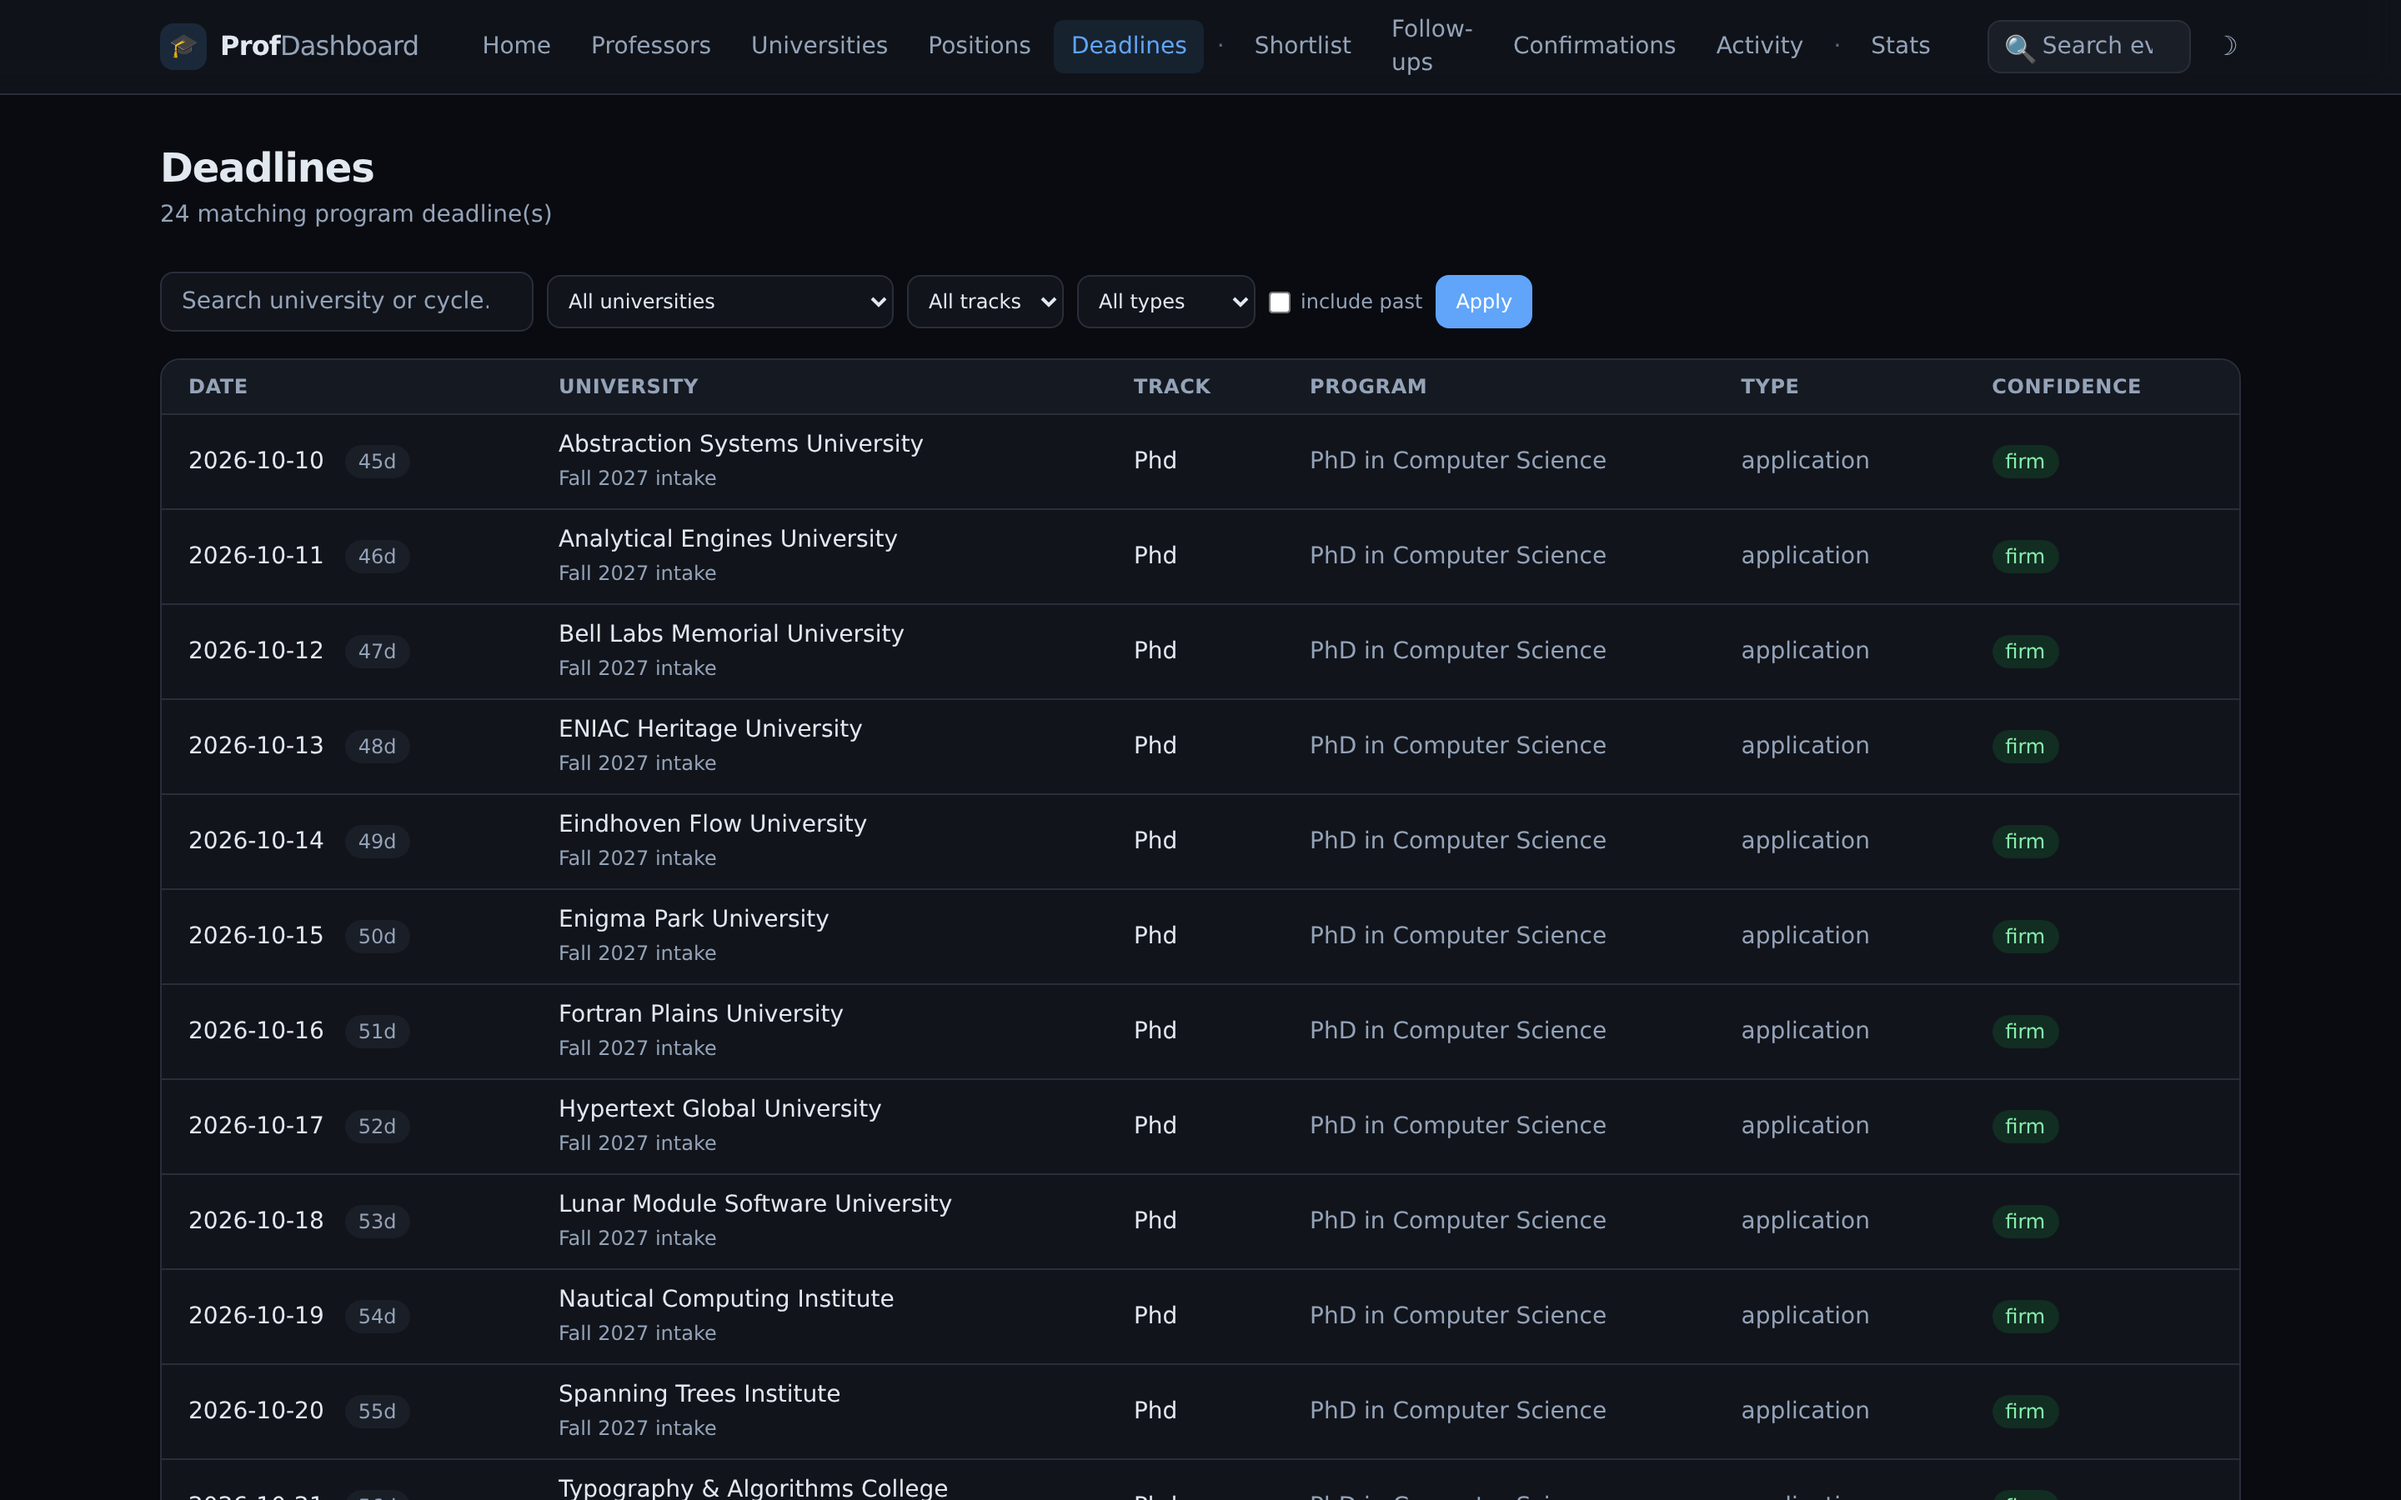
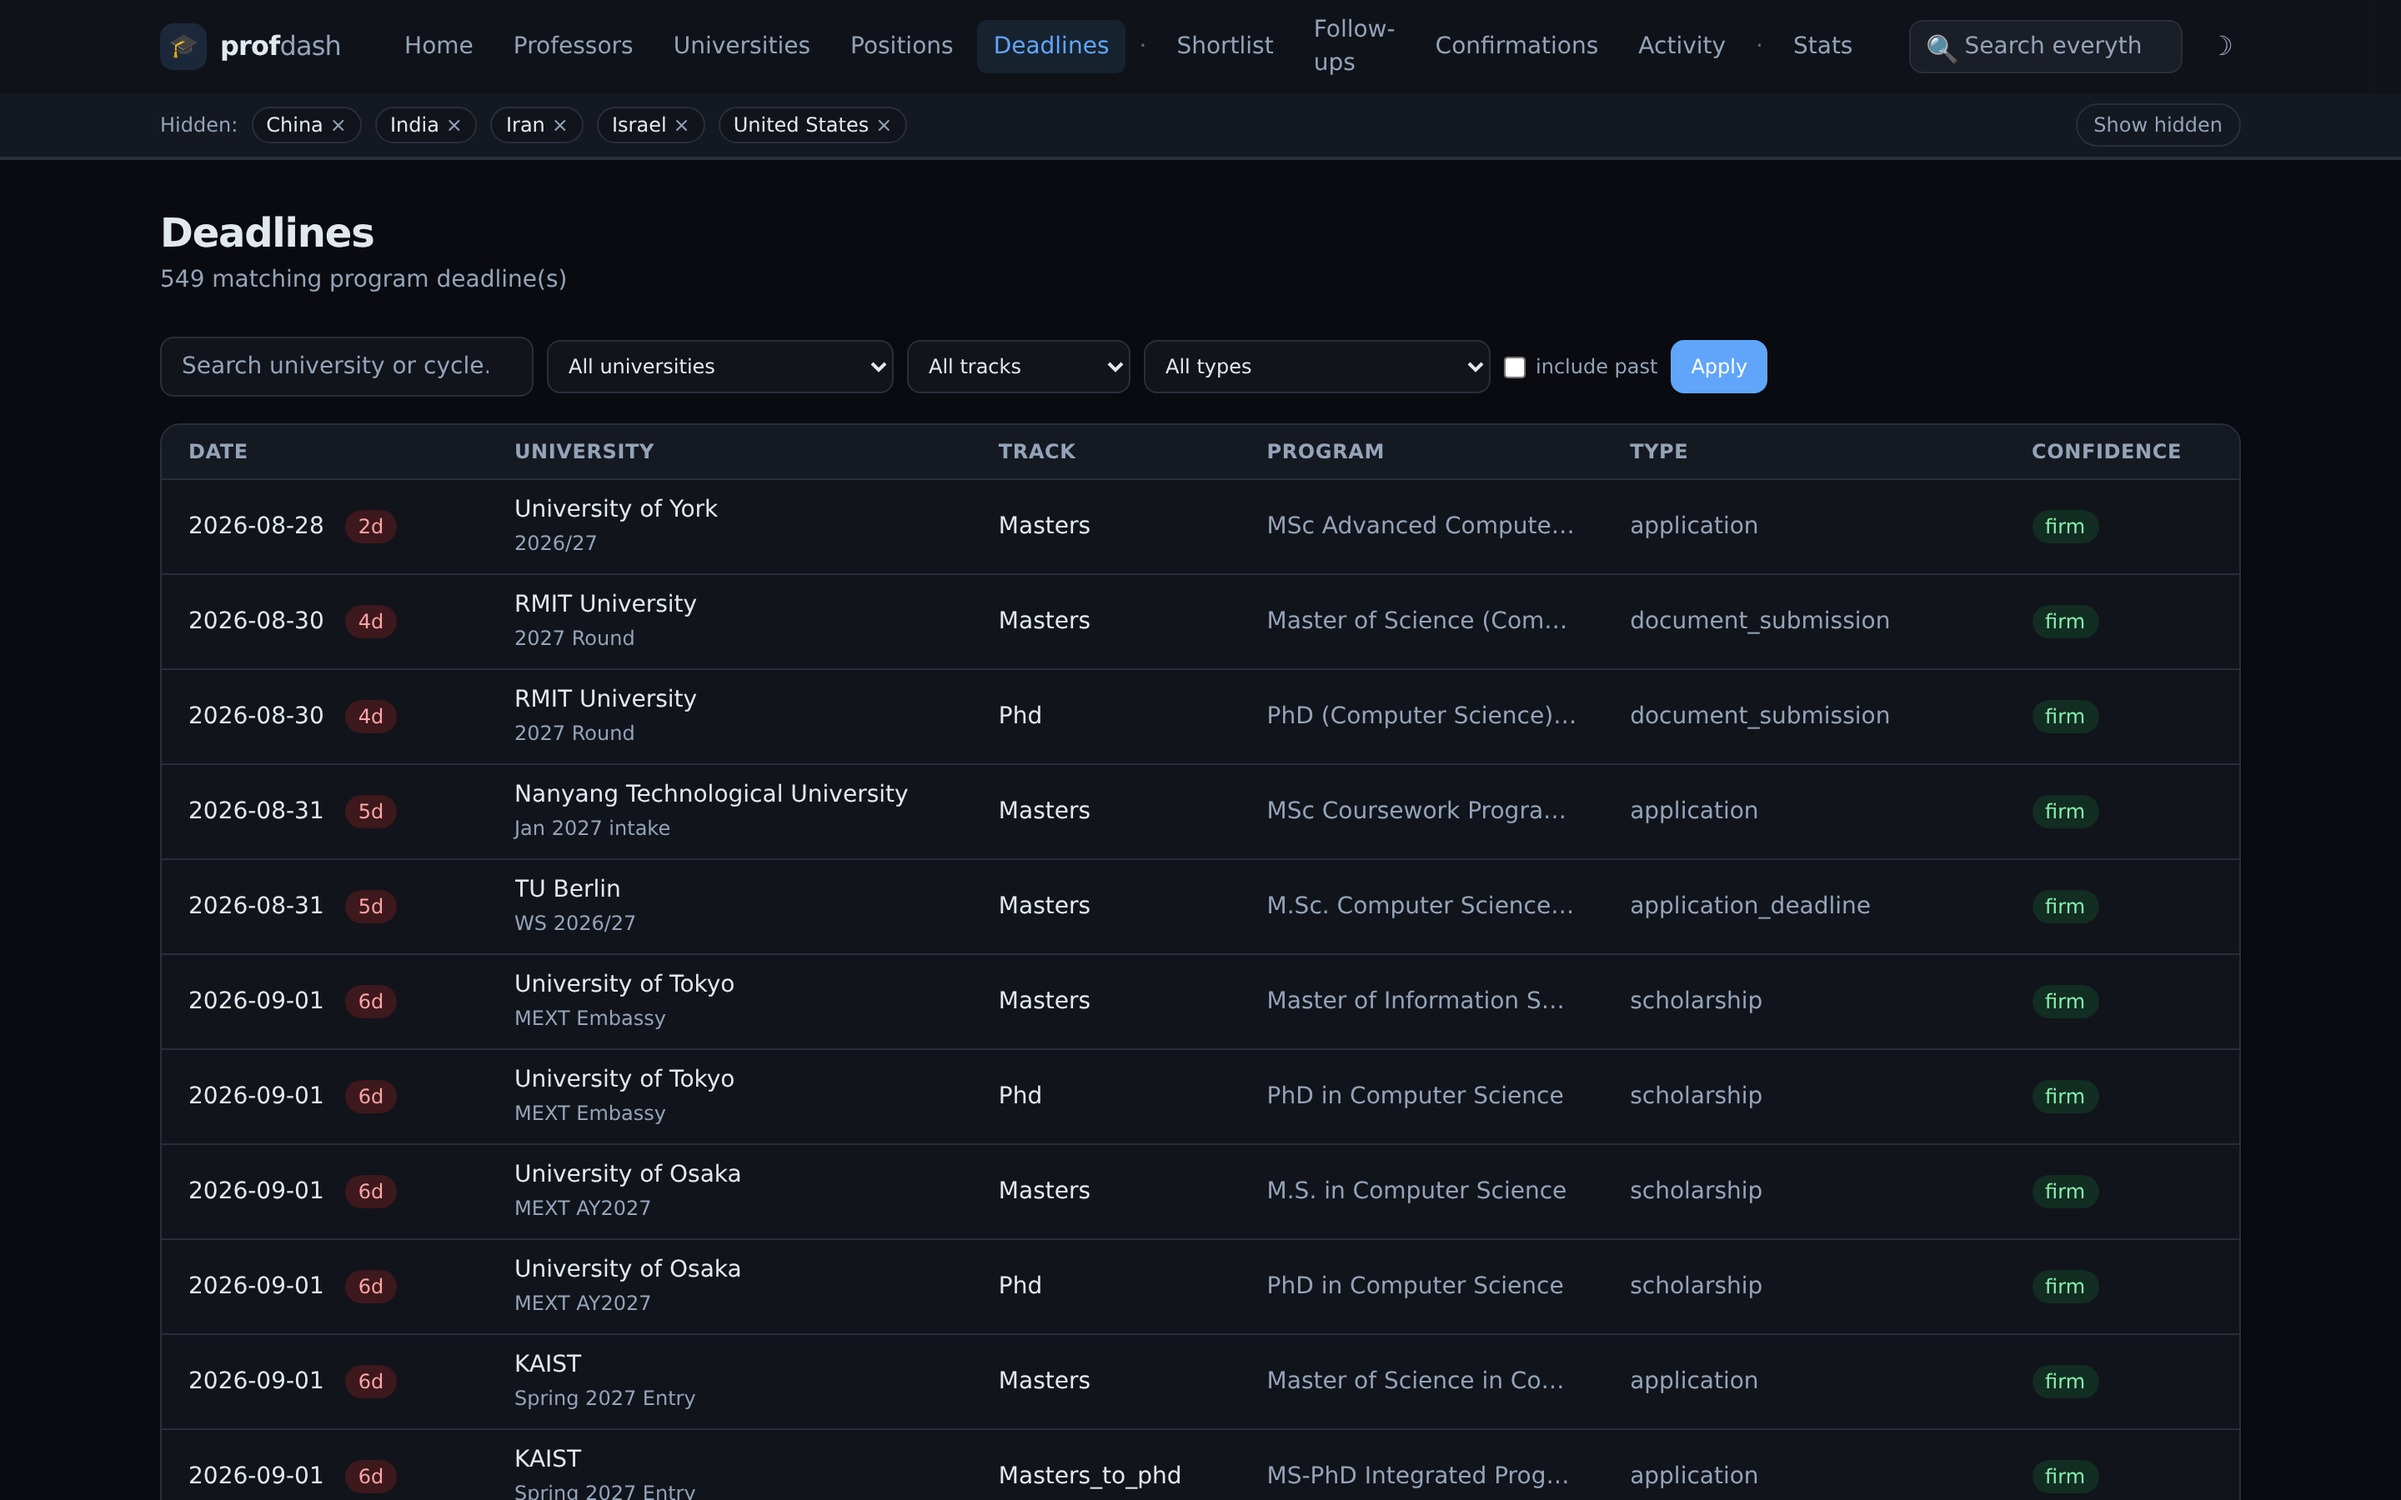
Real-data screenshots; fix entity double-escaping in macro args; rebrand nav

diff --git a/profdash/dashboard/templates/_base.html b/profdash/dashboard/templates/_base.html
@@ -66,7 +66,7 @@
     <div class="max-w-7xl mx-auto px-2 sm:px-4 h-14 flex items-center gap-3">
       <a href="/" class="flex items-center gap-2 font-semibold tracking-tight shrink-0">
         <span class="w-7 h-7 rounded-lg bg-accent/15 text-accent grid place-items-center text-sm">&#127891;</span>
-        <span class="hidden sm:inline">Prof<span class="text-muted font-normal">Dashboard</span></span>
+        <span class="hidden sm:inline">prof<span class="text-muted font-normal">dash</span></span>
       </a>
 
       <nav class="hidden lg:flex items-center gap-1 text-sm ml-4" aria-label="Main">

diff --git a/profdash/dashboard/templates/professor_detail.html b/profdash/dashboard/templates/professor_detail.html
@@ -133,7 +133,7 @@
     {% include "_draft_card.html" %}
 
     {% call card("University Context",
-                 uni_ctx.deadlines|length ~ " deadlines" ~ (" &middot; " ~ uni_ctx.positions|length ~ " positions" if uni_ctx.positions else "")) %}
+                 uni_ctx.deadlines|length ~ " deadlines" ~ (" · " ~ uni_ctx.positions|length ~ " positions" if uni_ctx.positions else "")) %}
       {% if uni_ctx.deadlines or uni_ctx.positions %}
         {% if uni_ctx.deadlines %}
         <ul class="space-y-2 mb-3">

diff --git a/profdash/dashboard/templates/positions.html b/profdash/dashboard/templates/positions.html
@@ -6,7 +6,7 @@
 {% block title %}Positions — profdash{% endblock %}
 
 {% block content %}
-{{ page_header("Positions", total ~ " position(s) from mailing lists &amp; digests") }}
+{{ page_header("Positions", total ~ " position(s) from mailing lists & digests") }}
 
 <form method="get" action="/positions" class="flex flex-wrap items-center gap-2 mb-4">
   <input type="search" name="search" value="{{ qp.get('search', '') }}" placeholder="Search title / institution / professor&hellip;" autocomplete="off"

diff --git a/profdash/dashboard/templates/pipeline_stats.html b/profdash/dashboard/templates/pipeline_stats.html
@@ -4,7 +4,7 @@
 {% block title %}Pipeline Stats — profdash{% endblock %}
 
 {% block content %}
-{{ page_header("Pipeline Stats", "Scoring funnel &amp; workload overview") }}
+{{ page_header("Pipeline Stats", "Scoring funnel & workload overview") }}
 
 <div class="grid grid-cols-2 md:grid-cols-3 xl:grid-cols-6 gap-3 mb-6">
   {{ stat_tile("Professors", stats.total, "in pipeline", "/professors") }}

diff --git a/profdash/dashboard/templates/home.html b/profdash/dashboard/templates/home.html
@@ -40,7 +40,7 @@
     {% endif %}
   {% endcall %}
 
-  {% call card("Overdue Follow-ups", "contacted &gt;21 days ago, still no reply") %}
+  {% call card("Overdue Follow-ups", "contacted >21 days ago, still no reply") %}
     {% if followups %}
       <ul class="divide-y divide-line -m-4">
         {% for f in followups %}
